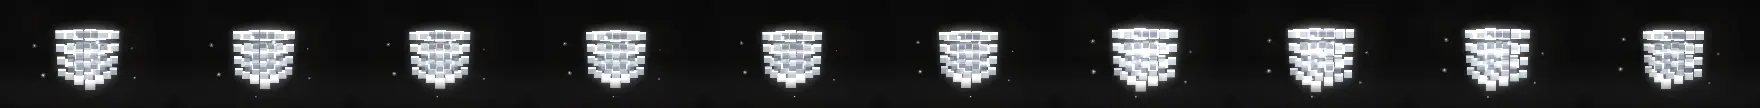
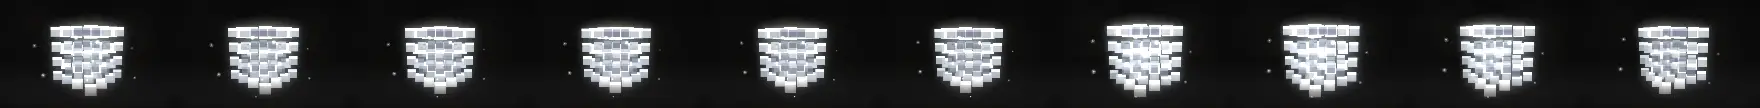
Release v8.21.0: performance and provider pass

diff --git a/src/modes-extra.js b/src/modes-extra.js
@@ -1355,32 +1355,43 @@ class ExtraModes {
     const spd = (0.9 + this.sm.level * 2.2) * (1 + this.beat * 1.4);
     this._sweepAng += spd * dt;
 
-    /* range rings + graticule — read at a glance, brighter than before */
+    /* range rings + graticule + bezel/ticks are static for a given size and
+       theme; cache them instead of restroking ~35 paths every frame */
+    const baseKey = `${w}x${h}|${this.theme.id}|${this.quality}`;
+    if (!this._radarBase || this._radarKey !== baseKey) {
+      this._radarKey = baseKey;
+      const cv = document.createElement('canvas');
+      cv.width = Math.max(2, Math.round(w));
+      cv.height = Math.max(2, Math.round(h));
+      const rc = cv.getContext('2d');
+      rc.globalCompositeOperation = 'lighter';
+      rc.strokeStyle = hexRgba(this._color(0), 0.16);
+      rc.lineWidth = 1;
+      for (let i = 1; i <= 4; i++) {
+        rc.beginPath();
+        rc.arc(cx, cy, (R * i) / 4, 0, Math.PI * 2);
+        rc.stroke();
+      }
+      rc.beginPath();
+      rc.moveTo(cx - R, cy); rc.lineTo(cx + R, cy);
+      rc.moveTo(cx, cy - R); rc.lineTo(cx, cy + R);
+      rc.stroke();
+      rc.strokeStyle = hexRgba(this._color(2), 0.16);
+      rc.beginPath();
+      rc.arc(cx, cy, R + 6, 0, Math.PI * 2);
+      rc.stroke();
+      rc.strokeStyle = hexRgba(this._color(2), 0.38);
+      for (let i = 0; i < 24; i++) {
+        const ang = (i / 24) * Math.PI * 2;
+        rc.beginPath();
+        rc.moveTo(cx + Math.cos(ang) * (R + 2), cy + Math.sin(ang) * (R + 2));
+        rc.lineTo(cx + Math.cos(ang) * (R + 7), cy + Math.sin(ang) * (R + 7));
+        rc.stroke();
+      }
+      this._radarBase = cv;
+    }
     ctx.globalCompositeOperation = 'lighter';
-    ctx.strokeStyle = hexRgba(this._color(0), 0.16);
-    ctx.lineWidth = 1;
-    for (let i = 1; i <= 4; i++) {
-      ctx.beginPath();
-      ctx.arc(cx, cy, (R * i) / 4, 0, Math.PI * 2);
-      ctx.stroke();
-    }
-    ctx.beginPath();
-    ctx.moveTo(cx - R, cy); ctx.lineTo(cx + R, cy);
-    ctx.moveTo(cx, cy - R); ctx.lineTo(cx, cy + R);
-    ctx.stroke();
-    /* outer bezel + tick marks every 15deg */
-    ctx.strokeStyle = hexRgba(this._color(2), 0.16);
-    ctx.beginPath();
-    ctx.arc(cx, cy, R + 6, 0, Math.PI * 2);
-    ctx.stroke();
-    ctx.strokeStyle = hexRgba(this._color(2), 0.38);
-    for (let i = 0; i < 24; i++) {
-      const ang = (i / 24) * Math.PI * 2;
-      ctx.beginPath();
-      ctx.moveTo(cx + Math.cos(ang) * (R + 2), cy + Math.sin(ang) * (R + 2));
-      ctx.lineTo(cx + Math.cos(ang) * (R + 7), cy + Math.sin(ang) * (R + 7));
-      ctx.stroke();
-    }
+    ctx.drawImage(this._radarBase, 0, 0);
     /* rotating crosshair that reads as a hard grid pointer */
     ctx.strokeStyle = hexRgba(this._color(0), 0.12 + this.beat * 0.1);
     ctx.beginPath();
@@ -1657,7 +1668,7 @@ class ExtraModes {
     const { ctx, w, h } = this;
     const cx = w / 2, cy = h / 2;
     const minDim = Math.min(w, h);
-    const S = minDim * 0.10;
+    const S = minDim * 0.115;
     const N = 4;
     if (!this.gpuVox || this._gpuSig !== N) {
       this._gpuSig = N;
@@ -1675,8 +1686,13 @@ class ExtraModes {
     const scale = S * beatP;
 
     /* render back-to-front for painter's order */
-    const cells = [];
-    for (const [ix, iy, iz] of this.gpuVox) {
+    if (!this._gpuCells || this._gpuCells.length !== this.gpuVox.length) {
+      this._gpuCells = this.gpuVox.map(() => ({ px: 0, py: 0, d: 0, s: 0 }));
+    }
+    const cells = this._gpuCells;
+    for (let vi = 0; vi < this.gpuVox.length; vi++) {
+      const [ix, iy, iz] = this.gpuVox[vi];
+      const cell = cells[vi];
       const x = (ix - (N - 1) / 2);
       const y = (iy - (N - 1) / 2);
       const z = (iz - (N - 1) / 2);
@@ -1687,12 +1703,10 @@ class ExtraModes {
       const z2 = y * sinB + z1 * cosB;
       /* perspective */
       const persp = 2.6 / (2.6 + z2 * 0.34);
-      cells.push({
-        px: cx + x1 * scale * persp,
-        py: cy + y1 * scale * persp,
-        d: z2,
-        s: Math.max(2.5, S * 0.72 * persp),
-      });
+      cell.px = cx + x1 * scale * persp;
+      cell.py = cy + y1 * scale * persp;
+      cell.d = z2;
+      cell.s = Math.max(2.5, S * 0.72 * persp);
     }
     cells.sort((a, b) => a.d - b.d);
 

diff --git a/src/spotify.js b/src/spotify.js
@@ -173,13 +173,20 @@ export class SpotifyClient {
   async handleRedirect() {
     const r = parseRedirect(window.location.search);
     if (!r) return false;
-    history.replaceState(null, '', window.location.pathname);
+    const clean = new URL(window.location.href);
+    for (const k of ['code', 'state', 'error', 'error_description']) clean.searchParams.delete(k);
+    history.replaceState(null, '', clean.pathname + clean.search + clean.hash);
     const s = loadStore();
     if (r.error) {
+      saveStore({ ...s, verifier: null, state: null });
       if (this.onError) this.onError(r.error === 'access_denied' ? 'Spotify authorization denied' : `Spotify error: ${r.error}`);
       return true;
     }
-    if (!r.code || !s.verifier || r.state !== s.state) return true;
+    if (!r.code || !s.verifier || r.state !== s.state) {
+      saveStore({ ...s, verifier: null, state: null });
+      if (this.onError) this.onError('Spotify sign-in expired — try again');
+      return true;
+    }
 
     const body = new URLSearchParams({
       grant_type: 'authorization_code',
@@ -313,19 +320,40 @@ export class SpotifyClient {
   }
 
   async connectPlayer() {
-    if (this.player) return this.deviceId;
+    if (this.player && this.deviceId) return this.deviceId;
     await this._loadSdk();
 
     return new Promise((resolve, reject) => {
+      let settled = false;
+      let timer = null;
       const player = new window.Spotify.Player({
         name: 'AUDIOVISOR',
         volume: 0.75,
         getOAuthToken: (cb) => this.ensureToken().then((t) => t && cb(t)),
       });
 
+      const finish = (err) => {
+        if (settled) return;
+        settled = true;
+        if (timer) clearTimeout(timer);
+        if (err) {
+          this.player = null;
+          this.deviceId = null;
+          try { player.disconnect?.(); } catch { /* already gone */ }
+          reject(err);
+        } else {
+          this.player = player;
+          resolve(this.deviceId);
+        }
+      };
+
       player.addListener('ready', ({ device_id }) => {
         this.deviceId = device_id;
-        resolve(device_id);
+        finish();
+      });
+      player.addListener('not_ready', () => {
+        this.deviceId = null;
+        if (this.player === player) this.player = null;
       });
       player.addListener('player_state_changed', (state) => {
         if (!state) return;
@@ -351,7 +379,7 @@ export class SpotifyClient {
             ? 'Spotify Premium is required for in-app playback'
             : `${label}: ${message}`;
         if (this.onError) this.onError(friendly);
-        reject(new Error(friendly));
+        finish(new Error(friendly));
       };
       player.addListener('initialization_error', fail('Init failed'));
       player.addListener('authentication_error', fail('Auth failed'));
@@ -360,8 +388,9 @@ export class SpotifyClient {
         if (this.onError) this.onError(`Playback: ${message}`);
       });
 
-      this.player = player;
-      player.connect().catch(reject);
+      /* a stuck SDK must not leave the provider panel awaiting forever */
+      timer = setTimeout(() => finish(new Error('Spotify player timed out')), 12000);
+      Promise.resolve(player.connect()).catch((err) => finish(err));
     });
   }
 

diff --git a/src/audio.js b/src/audio.js
@@ -103,6 +103,8 @@ export class AudioEngine {
     this.freqData = null;
     this.waveData = null;
     this._frameData = { freq: null, wave: null, stereoL: null, stereoR: null };
+    this._bandKey = '';
+    this._band = { iBass: 0, iMid: 0, iTOP: 0 };
     this._levels = { bass: 0, mid: 0, high: 0, level: 0, bpm: 0, beatPhase: 0, beatPulse: 0, beatConfidence: 0, drop: 0, chop: false, width: 0 };
 
     this.beat = new BeatTracker();
@@ -1223,15 +1225,24 @@ export class AudioEngine {
     }
     const { freq } = d;
     const n = freq.length;
-    const binHz = (this.ctx?.sampleRate || 44100) / 2 / n;
-    const iBass = Math.floor(120 / binHz);
-    const iMid = Math.floor(2000 / binHz);
+    /* band edges depend only on sample rate + FFT size; nil out the
+       divisions and Math.floor calls that ran 60-144x/s */
+    const bandKey = `${this.ctx?.sampleRate || 44100}|${n}`;
+    if (this._bandKey !== bandKey) {
+      const binHz = (this.ctx?.sampleRate || 44100) / 2 / n;
+      this._band = {
+        iBass: Math.floor(120 / binHz),
+        iMid: Math.floor(2000 / binHz),
+        iTOP: Math.min(n, Math.ceil(16000 / binHz)),
+      };
+      this._bandKey = bandKey;
+    }
+    const { iBass, iMid, iTOP } = this._band;
     /* the content window ends at ~16kHz, not Nyquist: the bins above carry
        nothing musical, and averaging them into `level` diluted perceived
        loudness by a third — quiet-but-full tracks measured as half-alive.
        The high band picks up the same edge so cymbal air is no longer
        thrown away at 8kHz. */
-    const iTOP = Math.min(n, Math.ceil(16000 / binHz));
     const avg = (a, b) => {
       let s = 0;
       for (let i = a; i < b; i++) s += freq[i];

diff --git a/src/visualizers.js b/src/visualizers.js
@@ -70,6 +70,7 @@ export class Renderer {
     const mem = navigator.deviceMemory || 8;
     const dprCap = (mem < 4 || isLowPowerDevice()) ? 1.5 : 2;
     this.dpr = Math.min(window.devicePixelRatio || 1, dprCap);
+    this._devicePixelRatio = window.devicePixelRatio || 1;
     this.w = 0;
     this.h = 0;
     this.t = 0;
@@ -156,6 +157,16 @@ export class Renderer {
 
   resize() {
     if (this._dead) return;
+    /* a window moved to a different-density display changes dpr without
+       necessarily changing the CSS size; refresh only on a real change so a
+       caller/test can still set an explicit dpr */
+    const actualDpr = window.devicePixelRatio || 1;
+    if (actualDpr !== this._devicePixelRatio) {
+      this._devicePixelRatio = actualDpr;
+      const mem = navigator.deviceMemory || 8;
+      const dprCap = (mem < 4 || isLowPowerDevice()) ? 1.5 : 2;
+      this.dpr = Math.min(actualDpr, dprCap);
+    }
     const rect = this.canvas.getBoundingClientRect();
     // Math.max propagates NaN, so a non-finite rect used to produce a
     // NaN width that coerces to a zero-size canvas; see src/levels.js

diff --git a/src/render-loop.js b/src/render-loop.js
@@ -52,6 +52,8 @@ export function createRenderLoop({
   let _stageLive = null;
   let _audioOnly = null;
   let _uiAcc = 0;
+  let _seekAcc = 0;
+  let _seekPct = -1;
   const seekFillEl = doc.getElementById('seek-fill');
   /* looked up once; these two are read several times every frame */
   const rayCanvasEl = doc.getElementById('ray-canvas');
@@ -262,7 +264,15 @@ export function createRenderLoop({
     if (!idle) {
       const t = audioTime;
       const dur = engine.getDuration();
-      seekFillEl.style.width = `${dur ? (t / dur) * 100 : 0}%`;
+      _seekAcc += dtMs;
+      if (_seekAcc >= 80) {
+        _seekAcc = 0;
+        const pct = dur ? (t / dur) * 100 : 0;
+        if (Math.abs(pct - _seekPct) >= 0.05) {
+          _seekPct = pct;
+          seekFillEl.style.width = `${pct}%`;
+        }
+      }
       _vuAcc += dtMs;
       // the clock only ticks once a second — skip 59 of 60 text writes
       const secs = Math.floor(t);

diff --git a/src/raystage.js b/src/raystage.js
@@ -169,6 +169,7 @@ export class RayStage {
     this.targets = {};
     this.quality = 'high';
     this.dpr = Math.min(window.devicePixelRatio || 1, 1.5);
+    this._devicePixelRatio = window.devicePixelRatio || 1;
     this.mode = 0;
     this.pal = ['#ffb45c', '#ff8a3d', '#fff1d6'].map(hexToRgb);
     this.sensitivity = 1.4;
@@ -429,6 +430,11 @@ export class RayStage {
 
   resize(w, h) {
     if (!this.ok) return;
+    const actualDpr = window.devicePixelRatio || 1;
+    if (actualDpr !== this._devicePixelRatio) {
+      this._devicePixelRatio = actualDpr;
+      this.dpr = Math.min(actualDpr, 1.5);
+    }
     // a non-finite size builds a zero-size framebuffer; see src/levels.js
     this.w = safeDimension(w);
     this.h = safeDimension(h);

diff --git a/public/sw.js b/public/sw.js
@@ -4,10 +4,16 @@
 /* Bump on every release. The old name was pinned at v6.3 across many
    deploys, so returning visitors kept being served whatever assets their
    cache already held. */
-const CACHE = 'audiovisor-v8.20.0';
+const CACHE = 'audiovisor-v8.21.0';
 
 self.addEventListener('install', (e) => {
   self.skipWaiting();
+  /* an offline first launch otherwise has no shell at all */
+  e.waitUntil(
+    caches.open(CACHE)
+      .then((c) => c.addAll(['/', '/manifest.json', '/icons/icon-192.png', '/icons/icon-512.png']))
+      .catch(() => {})
+  );
 });
 
 self.addEventListener('activate', (e) => {

diff --git a/src/applemusic.js b/src/applemusic.js
@@ -142,7 +142,7 @@ export class AppleMusicClient {
       this._configurePromise = developerToken().then((token) => loadMusicKit().then(async (MusicKit) => {
         await MusicKit.configure({
           developerToken: token,
-          app: { name: 'AUDIOVISOR', build: '8.20.0' },
+          app: { name: 'AUDIOVISOR', build: '8.21.0' },
         });
         this.music = MusicKit.getInstance();
         this._bindEvents();

diff --git a/src/rayshader.js b/src/rayshader.js
@@ -1296,7 +1296,7 @@ vec3 volColor(float dens, vec3 p) {
   float base = (uMode == 20) ? 0.46 : 0.52;
   if (uMode == 20) {
     float heat = smoothstep(-1.8, 1.8, p.y + 0.35 * sin(uTime * 0.35 + p.x * 2.0));
-    vec3 wax = mix(palf(0.10), palf(0.62), heat);
+    vec3 wax = mix(palf(0.10), palf(0.72), heat);
     c = mix(c, wax, 0.82);
   }
   return c * (base + uBeat * 0.5 + uDrop * 0.3);

diff --git a/README.md b/README.md
@@ -1,4 +1,4 @@
-# AUDIOVISOR — v8.20.0
+# AUDIOVISOR — v8.21.0
 
 A hifi, real-time music visualizer for the browser. Drop in a track or use a permitted live input to drive twenty-four stage modes and thirty-two themes. Direct URLs can drive the stage when the browser can analyze their audio. Spotify and Apple Music account connections provide in-app playback without beat-driven visuals.
 
@@ -29,6 +29,7 @@ A hifi, real-time music visualizer for the browser. Drop in a track or use a per
 ### Raytraced stage (v8.8)
 Every one of the 24 stage modes is now a **live raytraced scene** rendered on a WebGL2 ray-marcher — the Canvas2D engine remains as a fallback and can be toggled back on at any time (Look tab → **Raytrace**).
 
+- **v8.21 performance & provider pass** — audio band edges and their FFT bins are cached instead of recomputed every frame; the renderer refreshes DPR only when the display actually changes (monitor moves, zoom) without breaking an explicit override; GPU Core reuses its transformed-cell array instead of allocating 64 objects per frame and its stack is larger; the radar graticule/bezel/ticks are cached as a sprite instead of restroked each frame; the seek bar throttles style writes; and the service worker precaches the app shell so the first offline launch has a page. Spotify's player now clears stale device state on failure, times out instead of hanging, and OAuth mismatches clear the one-use PKCE state while preserving unrelated query/hash parameters.
 - **v8.20 further visual & systems pass** — raytraced terrain gained atmospheric perspective, GPU Core spreads the palette across its voxel stack, the spectrogram terrace and nebula core sit below their old exposure lines, and Chladni's highlights carry more hue. Canvas2D's city windows stopped boiling, the spiral now maps radius to the real spectrum instead of a repeating sparse pattern, particle constellation edges no longer allocate a colour string per line, the spectrogram reuses its column buffer, and the SSR reflection now rides the beat-punch transform instead of tearing away from the scene. The library keeps metadata in its own IndexedDB store (search no longer loads every audio buffer per keystroke), writes resolve on transaction commit, and loading a remix goes through the shared FX path so chips/state stay in sync. Covers are decoded after CORS/load handlers are attached, tempo analysis keeps one worker instead of piling up per selection, the VU canvas/favicon are cached, chrome reveal is throttled, and the recorder/audio-only E2E waits for the actual state transition.
 - **v8.19.1 audio, UI & platform fixes** — the transport clock now follows playback rate (Speed/Chop no longer desyncs the seek bar, Auto-DJ countdown or beat tracker), loop toggles apply to the source already playing, crossfading into an evicted queue entry rehydrates instead of starting a null buffer, the beat clock no longer treats every loop wrap as a seek, and the drop detector resets on seeks/track changes. Mic and capture are mutually exclusive, tap sources report unknown stereo width, and Play Demo replaces the queue instead of appending behind a playing track. Toasts escape track names and browser error text; WAV export caches its channel views; the recorder stops its tracks, keeps per-recording chunks and reports state; panel Enter/Space no longer double-fires on header buttons; pointer-cancel completes at the last position; settings reset clears both schema versions, restores EQ, applies explicit `false` values, caps import size, and keeps the volume slider’s ARIA state in step. Platform: the service worker no longer caches the token API, Range/206 audio or OAuth callback URLs; first install no longer reloads mid-session; WebGPU/WebGL2 handle device/context loss and failed shader links, the fallback backing store is capped like the ray stage, and GPU Core snapshots capture its own canvas. The share card now says 24 modes / 32 themes with absolute + Twitter image metadata, the manifest has a stable id, and `/sw.js` + `/manifest.json` are served no-cache.
 - **v8.19 all-mode visual & performance pass** — every one of the 24 scenes was reviewed and touched. Visuals: self-lit ember particles, brighter kaleidoscope facets with a non-mirror backing plate, rounded spectrogram tiles, terrain that keeps its hue at the crests and uses the full history range, shaded city crowns with slowly breathing windows, a less bleached nebula core, banded plasma, smoother orb/fluid shells, stronger tensor lean, fewer/thicker prism rays, a thicker accretion disc, a grounded bloom field, a cheaper fractalled core, taller radar contacts, warmer lava wax, softer GPU voxel noise, rim-faded vinyl grooves, and a continuously responsive Chladni figure. Performance: bars reuse their cached metal sprite instead of building 28-56 gradients a frame, fractal drops from 11 to 8 iterations, prism fan from 11 to 8 rays, GPU Core and lava stop tapping the spectrum texture inside their march/volume loops, and the Canvas2D path caches its tunnel vignette, Chladni plate gradient and nebula band scratch. Bugs fixed: temporal history is primed so look changes no longer flash dark, deferred scene hand-offs key stability on the mode actually drawn, Canvas2D trails/scope phosphor clear on theme/mode changes, bloom field no longer draws at a stale negative alpha, vinyl emphasises a groove without appending it to the previous path, the wave echo starts at silence-centre and resizes, terrain meteors clear on mode change, beat shockwaves/blips are rate-limited, three undefined reversed `smoothstep` calls were made monotonic, GPU Core's fallback no longer calls `setMode` every frame, the raytrace chips refresh their availability after the async stage lands, and `next2dQuality` can climb out of low under vsync. Render-loop GC was trimmed (allocation-free baseline percentile, cached canvas refs, capped grain tile).
